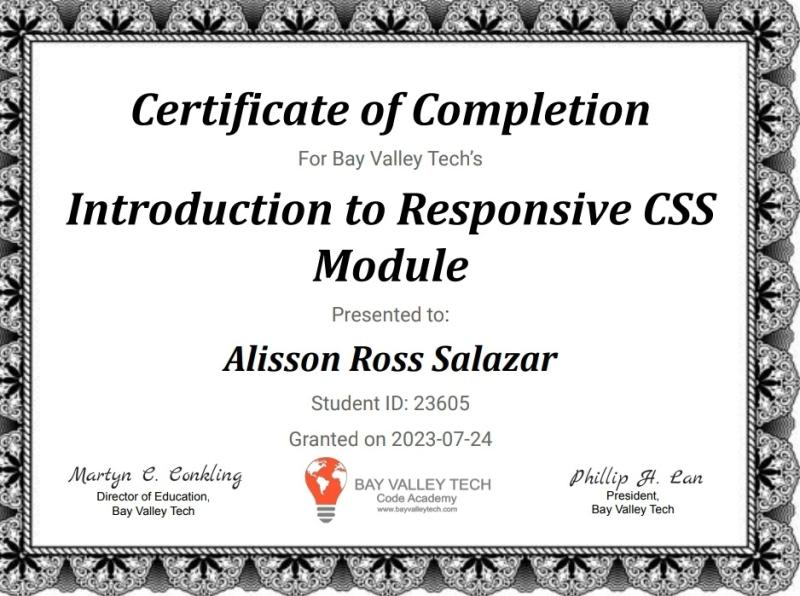
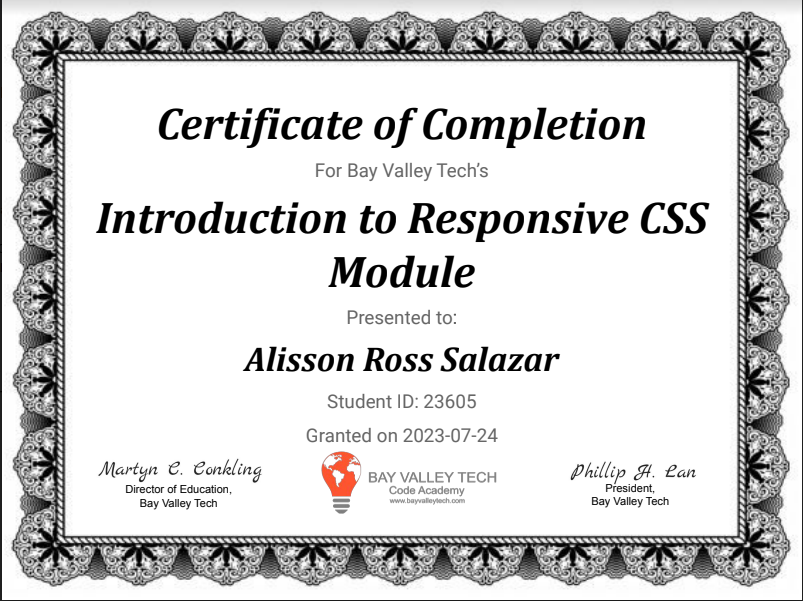
More styling changes for proj/certs

diff --git a/src/components/ProjDesc/index.js b/src/components/ProjDesc/index.js
@@ -5,12 +5,14 @@ import ExpandMoreIcon from '@mui/icons-material/ExpandMore';
 import { Paper } from '@mui/material';
 import ReactImg from '../assets/images/react.png';
 import 'animate.css';
+import { Container } from '@mui/system';
 
 export default function projDesc(){
     return (
     <Box className='Proj-main'> 
         <div className="projects-header">Projects and Guides<br/></div>
-            <Accordion className="Accordion">
+        <Box className='proj-Accordion' sx={{boxShadow:6, borderRadius:'25px'}} >
+            <Accordion className="Accordion" sx={{borderTopLeftRadius: '25px!important', borderTopRightRadius: '25px!important'}}>
                 <AccordionSummary
                     expandIcon={<ExpandMoreIcon />}>
                         <Typography gutterBottom variant="h5" className="Typo">2022- 2023 Projects</Typography>
@@ -30,13 +32,14 @@ export default function projDesc(){
                     {GuideCard(guides2223)}  
                 </AccordionDetails>
             </Accordion>
-            <Accordion className="Accordion">
+            <Accordion className="Accordion" sx={{borderBottomLeftRadius: '25px!important', borderBottomRightRadius: '25px!important'}}>
                 <AccordionSummary
                     expandIcon={<ExpandMoreIcon />}>
                     <Typography gutterBottom variant="h5" className="Typo">2018-2019 Projects</Typography>
                 </AccordionSummary>
                 {AccordionCard(items1819)}
-            </Accordion>      
+            </Accordion>    
+        </Box>  
         </Box>)
 }
 

diff --git a/src/components/Certifications/index.js b/src/components/Certifications/index.js
@@ -2,6 +2,7 @@ import ImageList from '@mui/material/ImageList';
 import ImageListItem from '@mui/material/ImageListItem';
 import ImageListItemBar from '@mui/material/ImageListItemBar';
 import { Box } from '@material-ui/core';
+import { Paper } from '@mui/material';
 
 export default function certDesc(){
     return(
@@ -11,13 +12,16 @@ export default function certDesc(){
             <h2 className="Cert-Description">The following are some of the certifications I've earned so far:
             <ImageList className= 'Cert-items' cols={2} sx={{justify:"center"}} >
                 {itemData.map((item) => (
-                <ImageListItem key={item.img} >
-                <img className='Cert-image'
-                    src={`${item.img}?w=248&fit=crop&auto=format`}
-                    srcSet={`${item.img}?w=248&fit=crop&auto=format&dpr=2 2x`}
-                    alt={item.title}
-                    loading="lazy"
-                />
+                <ImageListItem className="Cert-item" key={item.img} >
+                    
+                    <img className='Cert-image'
+                        src={`${item.img}?w=248&fit=crop&auto=format`}
+                        srcSet={`${item.img}?w=248&fit=crop&auto=format&dpr=2 2x`}
+                        alt={item.title}
+                        loading="lazy"
+                    />
+                
+            
                 <ImageListItemBar
                     title={item.title}
                     subtitle={<span>{item.date}</span>}

diff --git a/src/App.css b/src/App.css
@@ -116,11 +116,12 @@
   display: initial;
   color:white;
   animation: fadeInLeft 2s;
+  padding-bottom: 2vi;
 }
-.Accordion{
+.proj-Accordion{
+  
   margin-top: 2vi;
 }
-
 .Proj-main, .Cert-main{
   width: auto;
   display: inline-block;
@@ -164,7 +165,16 @@
     width: fit-content;
     height: auto;
     column-count: 2;
+    gap: 25px !important;
 }
+.Cert-item{
+  align-self: center;
+}
+.Cert-image{
+  border-radius: 25px;
+  filter: drop-shadow(0 1rem 0.5rem rgb(59, 23, 49));
+}
+
 .ImageList-Projects{
   color: rgb(117, 72, 104);
   width: 45vw;
@@ -235,13 +245,20 @@ svg.fillframe {
     flex-direction: column;
     padding: 5%;
   }
-  
+
   .Cert-Description > ul{
     display: flex !important;
     flex-direction: column;
+    
+  }
+  .Cert-image{
+    width: 60vw !important;
+  }
+  .MuiImageListItemBar-title{
+    font-size: calc(0.4em + 2vi) !important;
   }
   .Cert-items{
-    width: 95%;
+    width: 100%;
   }
   
   .App-header{
